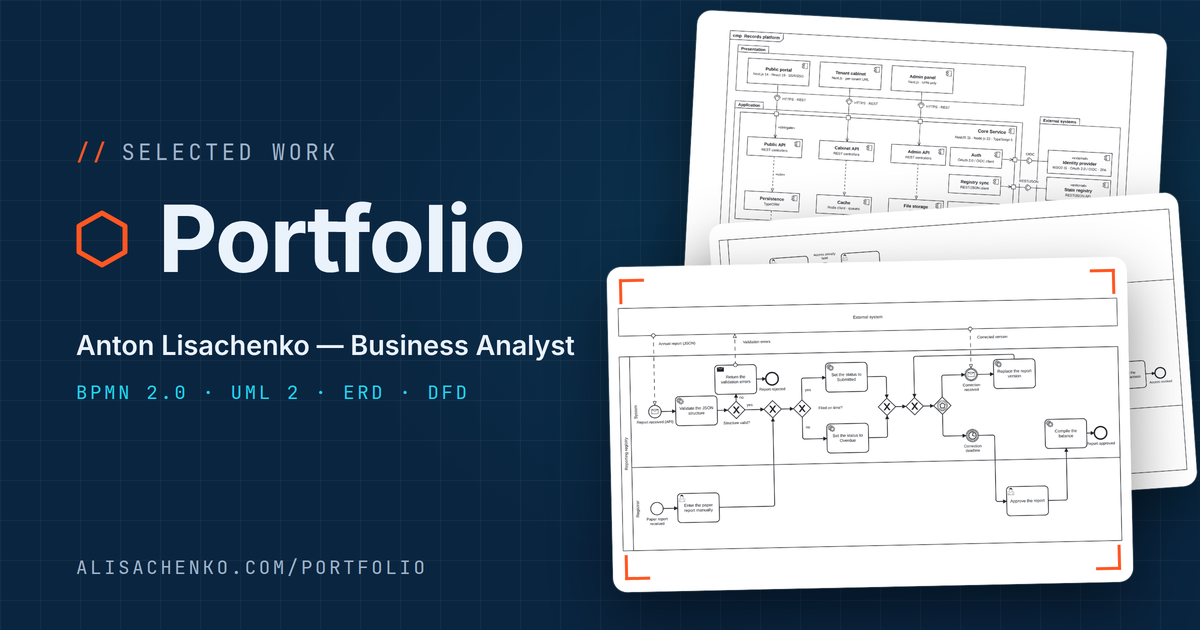
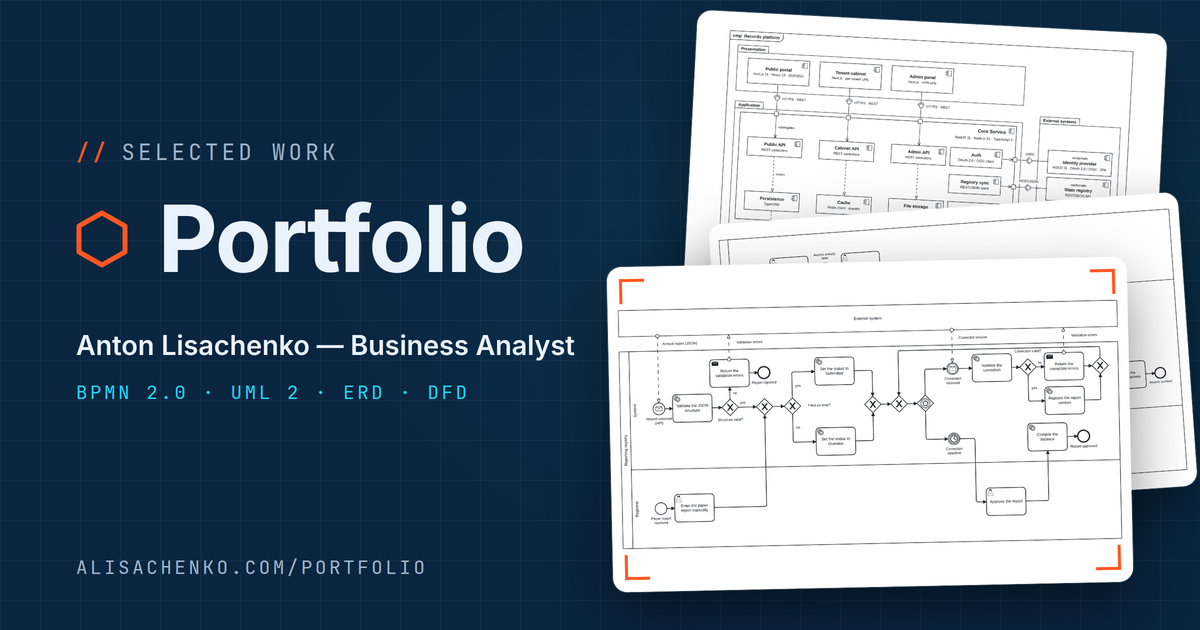
Portfolio: logic pass over every diagram
Each step walked through with "and if not?":
- Certificate: an existing certificate is reused only while it is
  current; otherwise the flow merges into creating a new one.
- Annual reporting: a correction is validated like the first report and
  goes back with its errors if invalid, instead of replacing the version
  unchecked.
- Validator: the analyst's verdict has three outcomes (accept the edits,
  keep as is, rework) and the rework is its own task.
- Sequence: every synchronous call now has its reply; renumbered.
- DFD: mapping reads a reference data store fed by the ingest.

Descriptions, alts and the preview image follow; cache version
2026093008.

Claude-Session: https://claude.ai/code/session_014ixdqH9cqRf9MbvrrSax4m

Changed region(s): [[0.5242, 0.4825, 0.925, 0.8746], [0.7708, 0.4524, 0.925, 0.4825]]

diff --git a/lang.js b/lang.js
@@ -72,13 +72,13 @@
                 items: {
                     arch: { type: "UML · Component", title: "System Architecture", short: "Multi-tenant records platform: three front doors over one NestJS core, with PostgreSQL, Redis, object storage and OAuth 2.0 / OIDC.", desc: "UML component diagram of a multi-tenant records platform: three front ends (public portal, per-tenant cabinet, VPN-only admin panel) require REST interfaces that the NestJS core provides on its ports and delegates to the API components; auth (OAuth 2.0 / OIDC), state-registry sync and notification components reach the external systems through ports as well, on top of persistence, cache and file-storage components backed by PostgreSQL (GIN/GiST full-text), Redis and S3-compatible storage; Docker / Kubernetes with CI/CD." },
                     approval: { type: "UML · Sequence", title: "Nomenclature Approval Flow", short: "How a catalogue item moves from Draft to Approved — statuses, edit locks, file storage and notifications in one sequence.", desc: "UML sequence diagram of approving a nomenclature (catalogue) item across five lifelines: the author creates it (saved to PostgreSQL) and submits it — the file goes to MinIO object storage, the status becomes In review and editing is locked — and the approver is notified asynchronously through a Redis queue; the approver opens the card and, in an alt fragment, either approves it or returns it with comments, which sends it back to Draft; either way the author is notified. No signature is required at submission." },
-                    cert: { type: "BPMN 2.0", title: "Certificate Issuance from Registry Records", short: "Reuse a certificate already issued or build a new one from registry records — with a refusal path and a QR code for verification.", desc: "BPMN 2.0 of issuing a certificate from registry records: the clerk first searches for one already issued and, if found, checks its card and issues it again; otherwise a draft is created and the object is looked up in the index — if it is not there, a refusal goes to the applicant. The record text is copied into the certificate, related records and documents are added when there are any, and the content is checked in a loop until it is correct; every join is an explicit merge gateway. The draft is saved at every step; once the clerk sets it to Formed, the system generates a QR code for verification and the certificate is issued to the applicant." },
+                    cert: { type: "BPMN 2.0", title: "Certificate Issuance from Registry Records", short: "Reuse a certificate already issued or build a new one from registry records — with a refusal path and a QR code for verification.", desc: "BPMN 2.0 of issuing a certificate from registry records: the clerk first searches for one already issued and, if it is found and still current, issues it again; otherwise a draft is created and the object is looked up in the index — if it is not there, a refusal goes to the applicant. The record text is copied into the certificate, related records and documents are added when there are any, and the content is checked in a loop until it is correct; every join is an explicit merge gateway. The draft is saved at every step; once the clerk sets it to Formed, the system generates a QR code for verification and the certificate is issued to the applicant." },
                     access: { type: "BPMN 2.0", title: "Access Request & Approval", short: "Time-boxed access to a registry card: requested by the user, routed by the role map, revoked automatically when the term ends.", desc: "BPMN 2.0 of role-based access on request: when a user's role gives no rights to a registry card, the system shows a request form; the user asks for specific rights (view, edit, attach files, print) for a set number of days, and the request is routed to the approving role from the role map. A rejection comes back with a reason; an approval grants access for the term, and a timer revokes it automatically once the term is over." },
                     state: { type: "UML · State Machine", title: "Access Request — Lifecycle", short: "The access request from the BPMN, seen as states: submitted, under review, active until the term runs out — and every way it can end.", desc: "UML 2 state machine of one access request — the lifecycle view of the Access Request BPMN: submit(rights, term) creates it in Submitted (entry: route to the approver); the approver opens it and either rejects it with a reason (entry: notify the requester) or approves it, which makes it Active — entry grants the rights and notifies the requester, exit withdraws them, so every way out cleans up. The time event after(term) moves it to Expired, an admin can revoke it earlier, and the requester may withdraw it while it is still Submitted; every end state leads to a final state." },
-                    bpmn2: { type: "BPMN 2.0", title: "Annual Reporting Flow", short: "Two ways in — API (JSON) or paper — one way out: validation, deadline-driven statuses, versioned corrections and registrar approval.", desc: "BPMN 2.0 collaboration of an annual-reporting flow with two entry points: an external system files a JSON report via API — its structure is validated first, and an invalid file goes back to the sender with the errors — while a registrar may also enter a paper report by hand. The report is stamped Submitted or Overdue by the filing date; an event-based gateway then takes corrections, each replacing the version, until the correction deadline, after which the registrar approves the report and the balance is compiled." },
-                    dwh: { type: "DFD · Gane–Sarson", title: "Medallion Data Pipeline", short: "Bronze → Silver → Gold warehouse: raw ingestion, cleaning and validation, curated marts feeding Superset and Power BI dashboards.", desc: "Level-1 data flow diagram (Gane–Sarson) of a warehouse built on the medallion architecture, with the level-0 context diagram alongside: source files and an upstream feed land untouched in Bronze, so every layer can be rebuilt; they are staged, cleansed and mapped to reference data, and Silver is built in wide and long, partitioned form; Gold marts are refreshed from it and served as dashboards in Apache Superset (analysts) and Power BI (leadership); scheduled orchestration keeps the layers consistent." },
+                    bpmn2: { type: "BPMN 2.0", title: "Annual Reporting Flow", short: "Two ways in — API (JSON) or paper — one way out: validation, deadline-driven statuses, versioned corrections and registrar approval.", desc: "BPMN 2.0 collaboration of an annual-reporting flow with two entry points: an external system files a JSON report via API — its structure is validated first, and an invalid file goes back to the sender with the errors — while a registrar may also enter a paper report by hand. The report is stamped Submitted or Overdue by the filing date; an event-based gateway then takes corrections until the correction deadline — each is validated the same way and either replaces the version or goes back with its errors — after which the registrar approves the report and the balance is compiled." },
+                    dwh: { type: "DFD · Gane–Sarson", title: "Medallion Data Pipeline", short: "Bronze → Silver → Gold warehouse: raw ingestion, cleaning and validation, curated marts feeding Superset and Power BI dashboards.", desc: "Level-1 data flow diagram (Gane–Sarson) of a warehouse built on the medallion architecture, with the level-0 context diagram alongside: source files and an upstream feed land untouched in Bronze, so every layer can be rebuilt; they are staged, cleansed and mapped against a reference data store fed by the ingest, and Silver is built in wide and long, partitioned form; Gold marts are refreshed from it and served as dashboards in Apache Superset (analysts) and Power BI (leadership); scheduled orchestration keeps the layers consistent." },
                     erd: { type: "ERD · Crow's Foot", title: "Records Platform — Data Model", short: "The logical model behind the registry flows: organisations, users and roles, cards with records and documents, certificates and access requests.", desc: "Logical ERD in crow's foot (IE) notation of the records platform behind the certificate and access flows: organisations own users and registry cards; users hold roles through user_role (at least one each); a card carries records and documents; a certificate quotes one or more records through certificate_record, and a record can be quoted by many certificates; a user's access request targets one card and yields at most one grant, whose unique request_id enforces the zero-or-one. Every foreign key has its relationship line, with the cardinality read at both ends." },
-                    rag: { type: "BPMN 2.0 · RAG", title: "Spec & Story Validator", short: "A local LLM checks a spec or a user story against eight standards and a set of golden stories, then returns an audit, recommendations and suggested edits — the analyst makes the call.", desc: "An AnythingLLM workspace on local models. A spec or a user story goes in, and its type picks the model: a compact, fast one for a story, a long-context one for a spec. The relevant standards and the nearest golden stories are retrieved from a local vector store, and the text is checked against each of eight standards in parallel — story types, INVEST, 3C, acceptance criteria, splitting, Definition of Ready, Definition of Done and requirement quality (ISO/IEC/IEEE 29148). Out come three things: an audit per standard, recommendations and suggested edits, every finding citing its standard. The analyst accepts the edits or reworks and resubmits; the best approved stories become new golden stories. Nothing leaves the laptop, so it works on NDA material." }
+                    rag: { type: "BPMN 2.0 · RAG", title: "Spec & Story Validator", short: "A local LLM checks a spec or a user story against eight standards and a set of golden stories, then returns an audit, recommendations and suggested edits — the analyst makes the call.", desc: "An AnythingLLM workspace on local models. A spec or a user story goes in, and its type picks the model: a compact, fast one for a story, a long-context one for a spec. The relevant standards and the nearest golden stories are retrieved from a local vector store, and the text is checked against each of eight standards in parallel — story types, INVEST, 3C, acceptance criteria, splitting, Definition of Ready, Definition of Done and requirement quality (ISO/IEC/IEEE 29148). Out come three things: an audit per standard, recommendations and suggested edits, every finding citing its standard. The analyst has the last word: accept the edits, keep the text as it is, or rework it and run the check again; the best approved stories become new golden stories. Nothing leaves the laptop, so it works on NDA material." }
                 },
                 cta: {
                     heading: "Want the details?",
@@ -198,13 +198,13 @@
                 items: {
                     arch: { type: "UML · Component", title: "Архітектура системи", short: "Мультитенантна платформа: три входи над єдиним ядром NestJS, PostgreSQL, Redis, об'єктне сховище і OAuth 2.0 / OIDC.", desc: "UML-діаграма компонентів мультитенантної платформи: три фронтенди (публічний портал, кабінет установи, адмінпанель лише через VPN) використовують REST-інтерфейси, які ядро NestJS надає через порти й делегує компонентам API; компоненти авторизації (OAuth 2.0 / OIDC), синхронізації з державним реєстром і сповіщень так само звертаються до зовнішніх систем через порти й працюють поверх компонентів доступу до даних, кешу та файлів із PostgreSQL (повнотекстові індекси GIN/GiST), Redis і S3-сумісним сховищем; Docker / Kubernetes з CI/CD." },
                     approval: { type: "UML · Sequence", title: "Флоу погодження номенклатури", short: "Як позиція номенклатури проходить шлях від «Чернетки» до «Погоджено» — статуси, блокування редагування, файлове сховище і сповіщення в одній діаграмі.", desc: "UML-діаграма послідовності погодження номенклатури з п'ятьма лініями життя: автор створює позицію (вона зберігається в PostgreSQL) і подає її — файл іде в об'єктне сховище MinIO, статус стає «На погодженні», редагування блокується, — а погоджувач отримує асинхронне сповіщення через чергу Redis; погоджувач відкриває картку і у фрагменті alt або погоджує її, або повертає з коментарями — тоді позиція повертається в «Чернетку»; в обох випадках автор отримує сповіщення. Підпис на етапі подання не вимагається." },
-                    cert: { type: "BPMN 2.0", title: "Формування довідки з реєстрових записів", short: "Знайти вже видану довідку або зібрати нову з реєстрових записів — з гілкою відмови і QR-кодом для перевірки.", desc: "BPMN 2.0 формування довідки за реєстровими записами: працівник спершу шукає вже видану довідку і, якщо вона є, перевіряє її картку та видає повторно; інакше створює чернетку й шукає об'єкт у покажчику — якщо його немає, заявник отримує відмову. Текст запису переноситься в довідку, пов'язані записи й документи додаються, якщо вони є, а зміст перевіряється в циклі, доки не стане коректним; кожне злиття — явний шлюз. Чернетка зберігається на кожному кроці; після присвоєння статусу «Сформовано» система генерує QR-код для перевірки, і довідку видають заявнику." },
+                    cert: { type: "BPMN 2.0", title: "Формування довідки з реєстрових записів", short: "Знайти вже видану довідку або зібрати нову з реєстрових записів — з гілкою відмови і QR-кодом для перевірки.", desc: "BPMN 2.0 формування довідки за реєстровими записами: працівник спершу шукає вже видану довідку і, якщо вона є й досі актуальна, видає її повторно; інакше створює чернетку й шукає об'єкт у покажчику — якщо його немає, заявник отримує відмову. Текст запису переноситься в довідку, пов'язані записи й документи додаються, якщо вони є, а зміст перевіряється в циклі, доки не стане коректним; кожне злиття — явний шлюз. Чернетка зберігається на кожному кроці; після присвоєння статусу «Сформовано» система генерує QR-код для перевірки, і довідку видають заявнику." },
                     access: { type: "BPMN 2.0", title: "Запит і погодження доступу", short: "Тимчасовий доступ до картки реєстру: запит від користувача, маршрут за картою ролей, автоматичне скасування після строку.", desc: "BPMN 2.0 надання доступу за запитом: якщо роль користувача не дає прав на картку реєстру, система показує форму запиту; користувач зазначає потрібні права (перегляд, редагування, додавання файлів, друк) і строк у днях, а запит іде на погодження ролі, визначеній картою ролей. Відмова повертається з причиною; погодження відкриває доступ на строк, а таймер автоматично скасовує його, щойно строк мине." },
                     state: { type: "UML · State Machine", title: "Запит на доступ — життєвий цикл", short: "Той самий запит на доступ, що й у BPMN, але як стани: подано, на розгляді, активний до кінця строку — і всі способи, якими він завершується.", desc: "UML 2 діаграма станів одного запиту на доступ — життєвий цикл до BPMN «Запит і погодження доступу»: подати(права, строк) створює запит у стані «Подано» (entry: направити погоджувачу); погоджувач відкриває його і або відхиляє з причиною (entry: сповістити заявника), або погоджує — тоді запит стає «Активним»: entry надає права й сповіщає заявника, exit забирає права, тож будь-який вихід прибирає за собою. Часова подія after(строк) переводить його у «Строк минув», адміністратор може скасувати доступ раніше, а поки запит «Подано», заявник може його відкликати; кожен кінцевий стан веде до фінального." },
-                    bpmn2: { type: "BPMN 2.0", title: "Флоу подання щорічної звітності", short: "Два входи — API (JSON) або папір — і один вихід: валідація, статуси за дедлайном, версії уточнень і затвердження реєстратором.", desc: "BPMN 2.0 (колаборація) флоу щорічної звітності із двома точками входу: зовнішня система подає звіт через API у форматі JSON — спершу перевіряється його структура, і некоректний файл повертається відправнику з помилками, — а реєстратор може внести паперовий звіт вручну. За датою подання звіт отримує статус «Подано» або «Прострочено»; далі шлюз на основі подій приймає уточнення, кожне з яких замінює версію, до кінцевої дати, після чого реєстратор затверджує звіт і баланс зводиться." },
-                    dwh: { type: "DFD · Gane–Sarson", title: "Медальйонний пайплайн даних", short: "Сховище Bronze → Silver → Gold: сирі дані, очищення й валідація, готові вітрини для дашбордів у Superset і Power BI.", desc: "DFD першого рівня (нотація Gane–Sarson) сховища за медальйонною архітектурою разом із контекстною діаграмою рівня 0: файли-джерела й зовнішній потік потрапляють у Bronze без змін, тож будь-який шар можна перебудувати; далі — очищення, зіставлення з довідниками і побудова Silver у широкому й довгому партиційованому форматах; з нього оновлюються вітрини Gold для дашбордів в Apache Superset (аналітики) і Power BI (керівництво); планова оркестрація тримає шари узгодженими." },
+                    bpmn2: { type: "BPMN 2.0", title: "Флоу подання щорічної звітності", short: "Два входи — API (JSON) або папір — і один вихід: валідація, статуси за дедлайном, версії уточнень і затвердження реєстратором.", desc: "BPMN 2.0 (колаборація) флоу щорічної звітності із двома точками входу: зовнішня система подає звіт через API у форматі JSON — спершу перевіряється його структура, і некоректний файл повертається відправнику з помилками, — а реєстратор може внести паперовий звіт вручну. За датою подання звіт отримує статус «Подано» або «Прострочено»; далі шлюз на основі подій приймає уточнення до кінцевої дати — кожне так само перевіряється і або замінює версію, або повертається з помилками, — після чого реєстратор затверджує звіт і баланс зводиться." },
+                    dwh: { type: "DFD · Gane–Sarson", title: "Медальйонний пайплайн даних", short: "Сховище Bronze → Silver → Gold: сирі дані, очищення й валідація, готові вітрини для дашбордів у Superset і Power BI.", desc: "DFD першого рівня (нотація Gane–Sarson) сховища за медальйонною архітектурою разом із контекстною діаграмою рівня 0: файли-джерела й зовнішній потік потрапляють у Bronze без змін, тож будь-який шар можна перебудувати; далі — очищення, зіставлення зі сховищем довідників (його наповнює завантаження) і побудова Silver у широкому й довгому партиційованому форматах; з нього оновлюються вітрини Gold для дашбордів в Apache Superset (аналітики) і Power BI (керівництво); планова оркестрація тримає шари узгодженими." },
                     erd: { type: "ERD · Crow's Foot", title: "Платформа реєстру — модель даних", short: "Логічна модель під флоу реєстру: організації, користувачі й ролі, картки із записами та документами, довідки й запити на доступ.", desc: "Логічна ERD у нотації crow's foot (IE) платформи, на якій працюють флоу довідок і доступу: організації володіють користувачами й картками реєстру; користувачі мають ролі через user_role (щонайменше одну); картка містить записи й документи; довідка цитує один або кілька записів через certificate_record, а запис може потрапити в багато довідок; запит користувача на доступ стосується однієї картки й дає не більше одного надання доступу — унікальний request_id забезпечує «нуль або один». Кожен зовнішній ключ має свою лінію зв'язку, кардинальність видно з обох кінців." },
-                    rag: { type: "BPMN 2.0 · RAG", title: "Валідатор специфікацій і user stories", short: "Локальна LLM перевіряє специфікацію або user story на відповідність восьми стандартам і золотим сторі та повертає аудит, рекомендації й правки — рішення за аналітиком.", desc: "Робочий простір AnythingLLM на локальних моделях. На вхід — специфікація або user story, і від типу залежить модель: компактна й швидка для сторі, з довгим контекстом — для специфікації. З локального векторного сховища підтягуються релевантні стандарти й найближчі золоті сторі, а текст паралельно перевіряється на відповідність кожному з восьми стандартів — типи сторі, INVEST, 3C, критерії приймання, розбиття, Definition of Ready, Definition of Done і якість вимог (ISO/IEC/IEEE 29148). На виході три речі: аудит по кожному стандарту, рекомендації та запропоновані правки, і кожне зауваження посилається на свій стандарт. Аналітик приймає правки або доопрацьовує й подає знову; найкращі схвалені сторі стають новими золотими. Нічого не виходить за межі ноутбука, тож це працює з матеріалами під NDA." }
+                    rag: { type: "BPMN 2.0 · RAG", title: "Валідатор специфікацій і user stories", short: "Локальна LLM перевіряє специфікацію або user story на відповідність восьми стандартам і золотим сторі та повертає аудит, рекомендації й правки — рішення за аналітиком.", desc: "Робочий простір AnythingLLM на локальних моделях. На вхід — специфікація або user story, і від типу залежить модель: компактна й швидка для сторі, з довгим контекстом — для специфікації. З локального векторного сховища підтягуються релевантні стандарти й найближчі золоті сторі, а текст паралельно перевіряється на відповідність кожному з восьми стандартів — типи сторі, INVEST, 3C, критерії приймання, розбиття, Definition of Ready, Definition of Done і якість вимог (ISO/IEC/IEEE 29148). На виході три речі: аудит по кожному стандарту, рекомендації та запропоновані правки, і кожне зауваження посилається на свій стандарт. Останнє слово за аналітиком: прийняти правки, лишити текст як є або доопрацювати й перевірити знову; найкращі схвалені сторі стають новими золотими. Нічого не виходить за межі ноутбука, тож це працює з матеріалами під NDA." }
                 },
                 cta: {
                     heading: "Потрібні деталі?",

diff --git a/portfolio.html b/portfolio.html
@@ -20,13 +20,13 @@
     <meta property="og:description"
         content="Business analysis artifacts in classic notations: BPMN 2.0, UML, ERD and DFD.">
     <meta name="twitter:card" content="summary_large_image">
-    <meta property="og:image" content="https://alisachenko.com/og-portfolio.png?v=2026093007">
+    <meta property="og:image" content="https://alisachenko.com/og-portfolio.png?v=2026093008">
     <meta property="og:image:width" content="1200">
     <meta property="og:image:height" content="630">
     <meta property="og:image:type" content="image/png">
     <meta property="og:image:alt" content="Portfolio — Anton Lisachenko, Business Analyst. BPMN 2.0, UML, ERD and data flow diagrams in classic notations.">
     <meta name="theme-color" content="#0a2540">
-    <link rel="stylesheet" href="style.css?v=2026093007">
+    <link rel="stylesheet" href="style.css?v=2026093008">
     <link rel="canonical" href="https://alisachenko.com/portfolio.html" />
     <!-- structured data: the portfolio as a collection of works by the person on the home page -->
     <script type="application/ld+json">
@@ -1145,7 +1145,7 @@
                     </div>
                     <h2 class="hex" data-i18n="portfolio.items.cert.title">Certificate Issuance from Registry Records</h2>
                     <p class="pf-desc" data-i18n="portfolio.items.cert.short">Reuse a certificate already issued or build a new one from registry records — with a refusal path and a QR code for verification.</p>
-                    <p class="pf-full" data-i18n="portfolio.items.cert.desc" hidden>BPMN 2.0 of issuing a certificate from registry records: the clerk first searches for one already issued and, if found, checks its card and issues it again; otherwise a draft is created and the object is looked up in the index — if it is not there, a refusal goes to the applicant. The record text is copied into the certificate, related records and documents are added when there are any, and the content is checked in a loop until it is correct; every join is an explicit merge gateway. The draft is saved at every step; once the clerk sets it to Formed, the system generates a QR code for verification and the certificate is issued to the applicant.</p>
+                    <p class="pf-full" data-i18n="portfolio.items.cert.desc" hidden>BPMN 2.0 of issuing a certificate from registry records: the clerk first searches for one already issued and, if it is found and still current, issues it again; otherwise a draft is created and the object is looked up in the index — if it is not there, a refusal goes to the applicant. The record text is copied into the certificate, related records and documents are added when there are any, and the content is checked in a loop until it is correct; every join is an explicit merge gateway. The draft is saved at every step; once the clerk sets it to Formed, the system generates a QR code for verification and the certificate is issued to the applicant.</p>
                     <p class="pf-more"><b>//</b> <span data-i18n="portfolio.more">tap to inspect</span></p>
                 </div>
             </article>
@@ -1193,7 +1193,7 @@
                     </div>
                     <h2 class="hex" data-i18n="portfolio.items.bpmn2.title">Annual Reporting Flow</h2>
                     <p class="pf-desc" data-i18n="portfolio.items.bpmn2.short">Two ways in — API (JSON) or paper — one way out: validation, deadline-driven statuses, versioned corrections and registrar approval.</p>
-                    <p class="pf-full" data-i18n="portfolio.items.bpmn2.desc" hidden>BPMN 2.0 collaboration of an annual-reporting flow with two entry points: an external system files a JSON report via API — its structure is validated first, and an invalid file goes back to the sender with the errors — while a registrar may also enter a paper report by hand. The report is stamped Submitted or Overdue by the filing date; an event-based gateway then takes corrections, each replacing the version, until the correction deadline, after which the registrar approves the report and the balance is compiled.</p>
+                    <p class="pf-full" data-i18n="portfolio.items.bpmn2.desc" hidden>BPMN 2.0 collaboration of an annual-reporting flow with two entry points: an external system files a JSON report via API — its structure is validated first, and an invalid file goes back to the sender with the errors — while a registrar may also enter a paper report by hand. The report is stamped Submitted or Overdue by the filing date; an event-based gateway then takes corrections until the correction deadline — each is validated the same way and either replaces the version or goes back with its errors — after which the registrar approves the report and the balance is compiled.</p>
                     <p class="pf-more"><b>//</b> <span data-i18n="portfolio.more">tap to inspect</span></p>
                 </div>
             </article>
@@ -1238,7 +1238,7 @@
 
             <article class="pf-card pf-reveal" role="button" tabindex="0" aria-haspopup="dialog">
                 <figure class="pf-media">
-                    <img src="artifacts/dfd-medallion-pipeline.png" alt="Level-1 data flow diagram in Gane–Sarson notation of a medallion data warehouse with its level-0 context diagram: processes, Bronze, Silver and Gold data stores, external entities and labelled data flows" loading="lazy" width="1600" height="1000">
+                    <img src="artifacts/dfd-medallion-pipeline.png" alt="Level-1 data flow diagram in Gane–Sarson notation of a medallion data warehouse with its level-0 context diagram: processes, Bronze, Silver, Gold and reference data stores, external entities and labelled data flows" loading="lazy" width="1600" height="1000">
                 </figure>
                 <div class="pf-body">
                     <div class="pf-tags">
@@ -1247,7 +1247,7 @@
                     </div>
                     <h2 class="hex" data-i18n="portfolio.items.dwh.title">Medallion Data Pipeline</h2>
                     <p class="pf-desc" data-i18n="portfolio.items.dwh.short">Bronze → Silver → Gold warehouse: raw ingestion, cleaning and validation, curated marts feeding Superset and Power BI dashboards.</p>
-                    <p class="pf-full" data-i18n="portfolio.items.dwh.desc" hidden>Level-1 data flow diagram (Gane–Sarson) of a warehouse built on the medallion architecture, with the level-0 context diagram alongside: source files and an upstream feed land untouched in Bronze, so every layer can be rebuilt; they are staged, cleansed and mapped to reference data, and Silver is built in wide and long, partitioned form; Gold marts are refreshed from it and served as dashboards in Apache Superset (analysts) and Power BI (leadership); scheduled orchestration keeps the layers consistent.</p>
+                    <p class="pf-full" data-i18n="portfolio.items.dwh.desc" hidden>Level-1 data flow diagram (Gane–Sarson) of a warehouse built on the medallion architecture, with the level-0 context diagram alongside: source files and an upstream feed land untouched in Bronze, so every layer can be rebuilt; they are staged, cleansed and mapped against a reference data store fed by the ingest, and Silver is built in wide and long, partitioned form; Gold marts are refreshed from it and served as dashboards in Apache Superset (analysts) and Power BI (leadership); scheduled orchestration keeps the layers consistent.</p>
                     <p class="pf-more"><b>//</b> <span data-i18n="portfolio.more">tap to inspect</span></p>
                 </div>
             </article>
@@ -1260,7 +1260,7 @@
 
             <article class="pf-card pf-reveal" role="button" tabindex="0" aria-haspopup="dialog">
                 <figure class="pf-media">
-                    <img src="artifacts/bpmn-spec-story-validator.png" alt="BPMN 2.0 diagram of spec and user story validation on a local LLM: business analyst and local LLM lanes, the model picked by input type, a parallel multi-instance check against eight standards, audit, recommendations and suggested edits as data objects, the analyst's decision with a rework loop, standards and golden stories data stores" loading="lazy" width="1600" height="1000">
+                    <img src="artifacts/bpmn-spec-story-validator.png" alt="BPMN 2.0 diagram of spec and user story validation on a local LLM: business analyst and local LLM lanes, the model picked by input type, a parallel multi-instance check against eight standards, audit, recommendations and suggested edits as data objects, a three-way analyst verdict (accept the edits, keep as is, rework) with a rework task, standards and golden stories data stores" loading="lazy" width="1600" height="1000">
                 </figure>
                 <div class="pf-body">
                     <div class="pf-tags">
@@ -1269,7 +1269,7 @@
                     </div>
                     <h2 class="hex" data-i18n="portfolio.items.rag.title">Spec &amp; Story Validator</h2>
                     <p class="pf-desc" data-i18n="portfolio.items.rag.short">A local LLM checks a spec or a user story against eight standards and a set of golden stories, then returns an audit, recommendations and suggested edits — the analyst makes the call.</p>
-                    <p class="pf-full" data-i18n="portfolio.items.rag.desc" hidden>An AnythingLLM workspace on local models. A spec or a user story goes in, and its type picks the model: a compact, fast one for a story, a long-context one for a spec. The relevant standards and the nearest golden stories are retrieved from a local vector store, and the text is checked against each of eight standards in parallel — story types, INVEST, 3C, acceptance criteria, splitting, Definition of Ready, Definition of Done and requirement quality (ISO/IEC/IEEE 29148). Out come three things: an audit per standard, recommendations and suggested edits, every finding citing its standard. The analyst accepts the edits or reworks and resubmits; the best approved stories become new golden stories. Nothing leaves the laptop, so it works on NDA material.</p>
+                    <p class="pf-full" data-i18n="portfolio.items.rag.desc" hidden>An AnythingLLM workspace on local models. A spec or a user story goes in, and its type picks the model: a compact, fast one for a story, a long-context one for a spec. The relevant standards and the nearest golden stories are retrieved from a local vector store, and the text is checked against each of eight standards in parallel — story types, INVEST, 3C, acceptance criteria, splitting, Definition of Ready, Definition of Done and requirement quality (ISO/IEC/IEEE 29148). Out come three things: an audit per standard, recommendations and suggested edits, every finding citing its standard. The analyst has the last word: accept the edits, keep the text as it is, or rework it and run the check again; the best approved stories become new golden stories. Nothing leaves the laptop, so it works on NDA material.</p>
                     <p class="pf-more"><b>//</b> <span data-i18n="portfolio.more">tap to inspect</span></p>
                 </div>
             </article>
@@ -1321,7 +1321,7 @@
         </figure>
     </div>
 
-    <script src="lang.js?v=2026093007"></script>
+    <script src="lang.js?v=2026093008"></script>
     <script>
         (function () {
             var reveals = Array.prototype.slice.call(document.querySelectorAll(".pf-reveal"));
@@ -1607,7 +1607,7 @@
             three.src = "https://cdnjs.cloudflare.com/ajax/libs/three.js/r128/three.min.js";
             three.onload = function () {
                 var fig = document.createElement("script");
-                fig.src = "figure.js?v=2026093007";
+                fig.src = "figure.js?v=2026093008";
                 document.body.appendChild(fig);
             };
             document.body.appendChild(three);

diff --git a/404.html b/404.html
@@ -12,7 +12,7 @@
     <link rel="icon" type="image/svg+xml" href="/favicon.svg">
     <link rel="apple-touch-icon" href="/apple-touch-icon.png">
     <meta name="theme-color" content="#0a2540">
-    <link rel="stylesheet" href="/style.css?v=2026093007">
+    <link rel="stylesheet" href="/style.css?v=2026093008">
     <!-- dark is the default theme, light only if the visitor toggled it -->
     <script>try { if (localStorage.getItem("theme") !== "light") document.documentElement.classList.add("dark"); } catch (e) { document.documentElement.classList.add("dark"); }</script>
     <style>
@@ -196,9 +196,9 @@
             scrollShrink: 0, bandless: true
         };
     </script>
-    <script src="/lang.js?v=2026093007"></script>
+    <script src="/lang.js?v=2026093008"></script>
     <script src="https://cdnjs.cloudflare.com/ajax/libs/three.js/r128/three.min.js"></script>
-    <script src="/figure.js?v=2026093007"></script>
+    <script src="/figure.js?v=2026093008"></script>
     <script>
         // ===== THEME TOGGLE (same behavior as index.html, standalone) =====
         (function () {

diff --git a/index.html b/index.html
@@ -29,7 +29,7 @@
     <link rel="preload" href="fonts/inter-latin.woff2" as="font" type="font/woff2" crossorigin>
     <!-- Three.js comes from cdnjs: open the connection early -->
     <link rel="preconnect" href="https://cdnjs.cloudflare.com" crossorigin>
-    <link rel="stylesheet" href="style.css?v=2026093007">
+    <link rel="stylesheet" href="style.css?v=2026093008">
     <link rel="canonical" href="https://alisachenko.com/" />
     <!-- structured data: the site, this profile page and the person it is about
          (alternateName = the Cyrillic spelling, so UA searches map to the same person) -->
@@ -325,10 +325,10 @@
         </div>
     </section>
 
-    <script src="lang.js?v=2026093007"></script>
+    <script src="lang.js?v=2026093008"></script>
     <script src="https://cdnjs.cloudflare.com/ajax/libs/three.js/r128/three.min.js"></script>
-    <script src="figure.js?v=2026093007"></script>
-    <script src="script.js?v=2026093007"></script>
+    <script src="figure.js?v=2026093008"></script>
+    <script src="script.js?v=2026093008"></script>
 </body>
 
 </html>

diff --git a/services.html b/services.html
@@ -25,7 +25,7 @@
     <meta property="og:image:type" content="image/png">
     <meta property="og:image:alt" content="Anton Lisachenko — Business Analyst. Services.">
     <meta name="theme-color" content="#0a2540">
-    <link rel="stylesheet" href="style.css?v=2026093007">
+    <link rel="stylesheet" href="style.css?v=2026093008">
     <link rel="canonical" href="https://alisachenko.com/services.html" />
     <!-- progressive enhancement flag: entrance-hidden states only apply with JS -->
     <script>document.documentElement.classList.add("js");</script>
@@ -608,7 +608,7 @@
         <p>Anton Lisachenko &middot; &copy; 2026 &middot; <a href="index.html">alisachenko.com</a></p>
     </footer>
 
-    <script src="lang.js?v=2026093007"></script>
+    <script src="lang.js?v=2026093008"></script>
     <script>
         /* Split pill text into chip spans. Each / or + makes a new chip on the
            SAME line; a | forces a new centered line (used where one word alone

diff --git a/privacy.html b/privacy.html
@@ -10,7 +10,7 @@
     <link rel="apple-touch-icon" href="apple-touch-icon.png">
     <meta name="robots" content="noindex">
     <meta name="theme-color" content="#0a2540">
-    <link rel="stylesheet" href="style.css?v=2026093007">
+    <link rel="stylesheet" href="style.css?v=2026093008">
     <link rel="canonical" href="https://alisachenko.com/privacy.html" />
     <!-- dark is the default theme, light only if the visitor toggled it (same as
          every other page) -->
@@ -188,7 +188,7 @@
         <p>Anton Lisachenko &middot; &copy; 2026</p>
     </footer>
 
-    <script src="lang.js?v=2026093007"></script>
+    <script src="lang.js?v=2026093008"></script>
     <script>
         // ===== THEME TOGGLE (same behavior as index.html, standalone) =====
         (function () {

diff --git a/AGENTS.md b/AGENTS.md
@@ -6,7 +6,7 @@ Plain HTML/CSS/JS, no framework. Files: `index.html`, `style.css`, `script.js` (
 - Local server: `python3 -m http.server 8080` from the project root → http://localhost:8080
 - The intro plays once per session; to replay it open a fresh/private tab.
 - After editing JS run: `node --check script.js figure.js lang.js`
-- **Cache busting**: every page loads `style.css`, `lang.js`, `figure.js`, `script.js` with `?v=YYYYMMDDNN` (currently `2026093007`) (index, portfolio incl. its dynamic figure.js loader, 404, privacy, services). BUMP the version in all pages whenever one of those files changes before a deploy — otherwise browsers mix a fresh HTML page with a stale cached lang.js (Sep 27 2026: the new RAG card showed only its hard-coded bits, "Local LLM" + "tap to inspect", with empty title/desc/type). One-liner: `sed -i '' -E 's/\?v=[0-9]+/?v=NEW/g' *.html`.
+- **Cache busting**: every page loads `style.css`, `lang.js`, `figure.js`, `script.js` with `?v=YYYYMMDDNN` (currently `2026093008`) (index, portfolio incl. its dynamic figure.js loader, 404, privacy, services). BUMP the version in all pages whenever one of those files changes before a deploy — otherwise browsers mix a fresh HTML page with a stale cached lang.js (Sep 27 2026: the new RAG card showed only its hard-coded bits, "Local LLM" + "tap to inspect", with empty title/desc/type). One-liner: `sed -i '' -E 's/\?v=[0-9]+/?v=NEW/g' *.html`.
 - 404.html: GitHub Pages serves it for ANY missing path, so every asset in it is root-absolute (`/style.css`, `/figure.js`…). Locally just open `/404.html`.
 
 ## Current design (as of the dark-theme overhaul — do not regress)
@@ -142,6 +142,7 @@ Separate `og:image` and `og:description` for portfolio.html. Recruiters share li
   - **Zoom in the lightbox**: the lightbox always shows `artifacts/hd/<same file name>` (3200×2000, a 64-colour palette PNG — SMALLER than the 1600 card copy: ~50–90 KB); click / tap zooms ×2.5 under the pointer, drag pans (clamped to the overhang), wheel zooms once zoomed (a plain wheel over the fitted picture still scrolls the panel; ctrl+wheel = trackpad pinch works always), two-finger pinch on touch, `.lb-zoom` button (magnifier, minus when zoomed; in the phone toolbar right of the counter), keys + / − / 0. Flip or close resets. A sideways swipe flips only when NOT zoomed. `draggable="false"` + `dragstart` preventDefault on the lightbox img are REQUIRED — without them Chrome starts a native image drag and cancels the pan (pointercancel). Every new artifact needs its `artifacts/hd/` copy (fin.py in the scratchpad makes both).
   - **Notation fixes (rules 9–11 added to the classic-correctness list below)**: cert — one action per task («Створення чернетки довідки», «Перенесення тексту запису в довідку», «Генерація QR-коду довідки», «Видача довідки заявнику» instead of "…або…"), a new XOR «Об'єкт знайдено?» with a send task «Надсилання відмови заявнику» → end «Відмову надіслано»; access — task names unified to verbal nouns in UA; annual — «Перевірка структури JSON» → XOR «Структура коректна?» → send task «Повернення помилок валідації» with a message flow back to the external pool → end «Звіт відхилено», «Затвердження звіту» (was "перевірка та затвердження"); validator — "Apply the accepted edits" and "Add the story to the backlog (Jira)" are two tasks; sequence — MinIO is its own (fifth, rightmost) lifeline (4. PUT / 4.1 object key), renumbered 1–13b, both alt branches get the DB reply AND notify the author (13a Approved / 13b Returned), statuses Draft → In review → Approved; component — Core Service has PORTS (small squares on its boundary) with «delegate» connectors to the API parts and from Auth / Registry sync / Notifications out to the external assemblies; DFD — neutral labels (Data providers, Map reference data) + a dashed "Context · level 0" inset (process 0 with the same four entities and flows) so level 1 balances.
   - **New artifacts**: `erd` (erd.html: 11 tables — `registry_record` not `record` and column `content` not `text` (PostgreSQL type names; pre-deploy review), PK/FK column, types, crow's-foot marks drawn by `mark()` at both ends of every FK relationship, M:N via user_role and certificate_record, access_grant 0..1 via unique request_id, cardinality legend) and `state` (stm.js + stm_{uk,en}.html: initial → Submitted (entry) → Under review → approve (NO effect on the transition) → Active (entry: grant the rights; notify the requester — the same order as the BPMN; an effect on the transition would run BEFORE entry and contradict it / exit) with Withdrawn / Rejected (entry) / Expired (after(term)) / Revoked [admin] → two final states, note tying it to the access BPMN).
+  - **LOGIC PASS (Sep 30 2026, user: "кожен степ має бути логічно, без говняка")** — every step walked through as a reviewer asking "and if not?": cert — the existing certificate is reused only if XOR «Наявна довідка актуальна?» / "Existing certificate current?" says yes; "no" goes through a new merge MX before «Створення чернетки довідки» (17 columns, gap 26); annual — a CORRECTION is validated too: «Надійшло виправлення» → «Перевірка структури уточнення» → XOR «Уточнення коректне?» → no: send «Повернення помилок уточнення» (message flow "Validation errors" to the external pool) / yes: «Заміна версії звіту» (on the row below) → merge → back up the top loop to the merge before the event-based gateway; validator — the analyst's verdict is a three-way XOR "Verdict?": accept → Apply the accepted edits → merge → Add to the backlog; keep as is → straight to that merge; rework → a user task "Rework the spec or story" on the top row → the merge before Submit (GAP 26, pool 1948); sequence — EVERY synchronous call now has its reply (3 Created, status Draft; 14a Approved / 14b Returned to the approver panel), renumbered 1–15b; DFD — process 3 maps against a new store "D5 Reference data" written by process 1 ("reference lists"), so no process works on data from nowhere. The component diagram, ERD, access BPMN and state machine passed as they were.
   - Generators (scratchpad only, never in this public repo): `gen.py` (cert/access, `LANG` loop), `gen_annual.py <uk|en>`, `gen_val.py`, `seq.js` + `seq_{uk,en}.html`, `arch.html`, `dfd.html`, `erd.html`, `stm.js` + `stm_{uk,en}.html`; `render.js` (bpmn-js) / `render_svg.js` (SVG kit) → `fin.py` → `out/` + `out/hd/`.
   **REJECTED Sep 30 2026 (don't retry)**: a UML USE CASE diagram of the validator (stick-figure actor, «include»/«extend») — user: "це просто ужас… прибрати цю схему намальовану з чувачком термоіново"; and a written user-story SPEC page (US-03: Gherkin AC, BR, NFR, DoR) — "це теж просто сором… це якийсь опис". Both cards, keys and PNGs are deleted. A written document as a portfolio card reads as padding; the validator should be shown as a PICTURE of how it works (input → local model → golden standards → report → the analyst decides).
 - **"Повний фарш" pass (Sep 30 2026, user: "домалюємо system architecture та medallion pipeline… класично… можеш сам 1-2 створити як приклад")** — drawn with a hand-written SVG kit (`lib.js` + one HTML page per diagram, JS lays out the SVG and measures text; headless Chromium at 2x → Lanczos 1600×1000; drawing scaled 0.9 around the centre so the lightbox counter and crop marks sit in empty space; scratchpad only, NOT in this public repo). NEW FILE NAMES so no stale cache; the colourful `general-schematic-diagram.png` / `dwh-medallion.png` are deleted.
